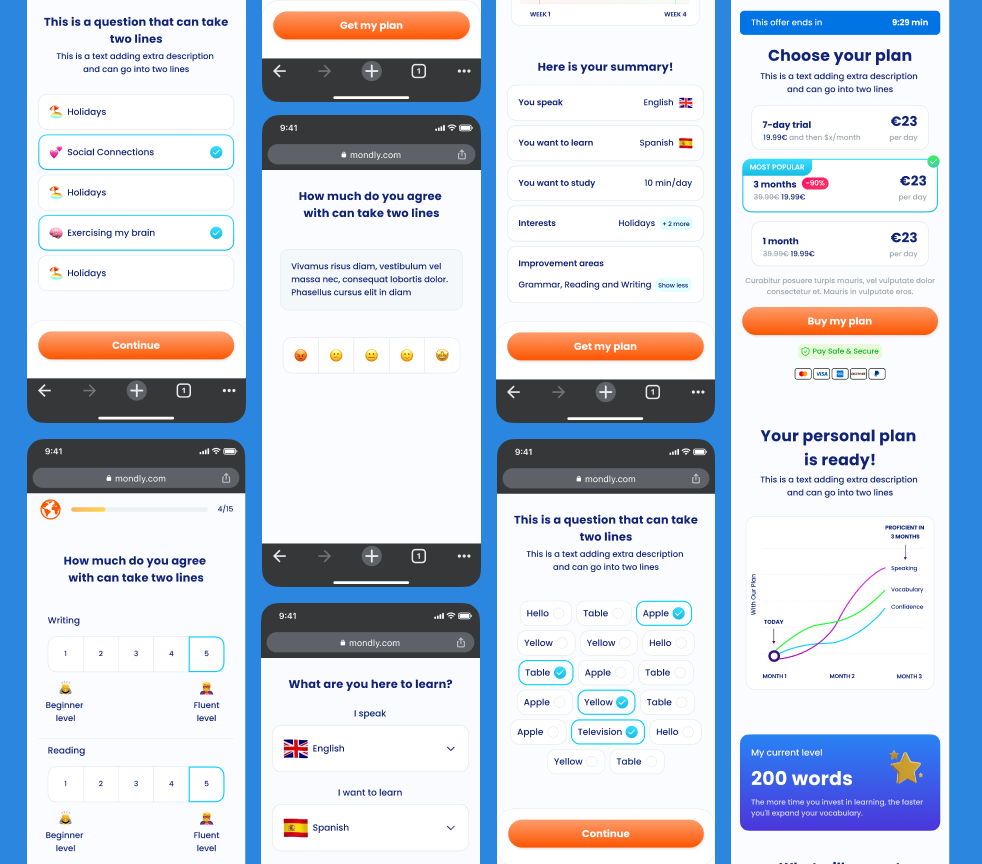
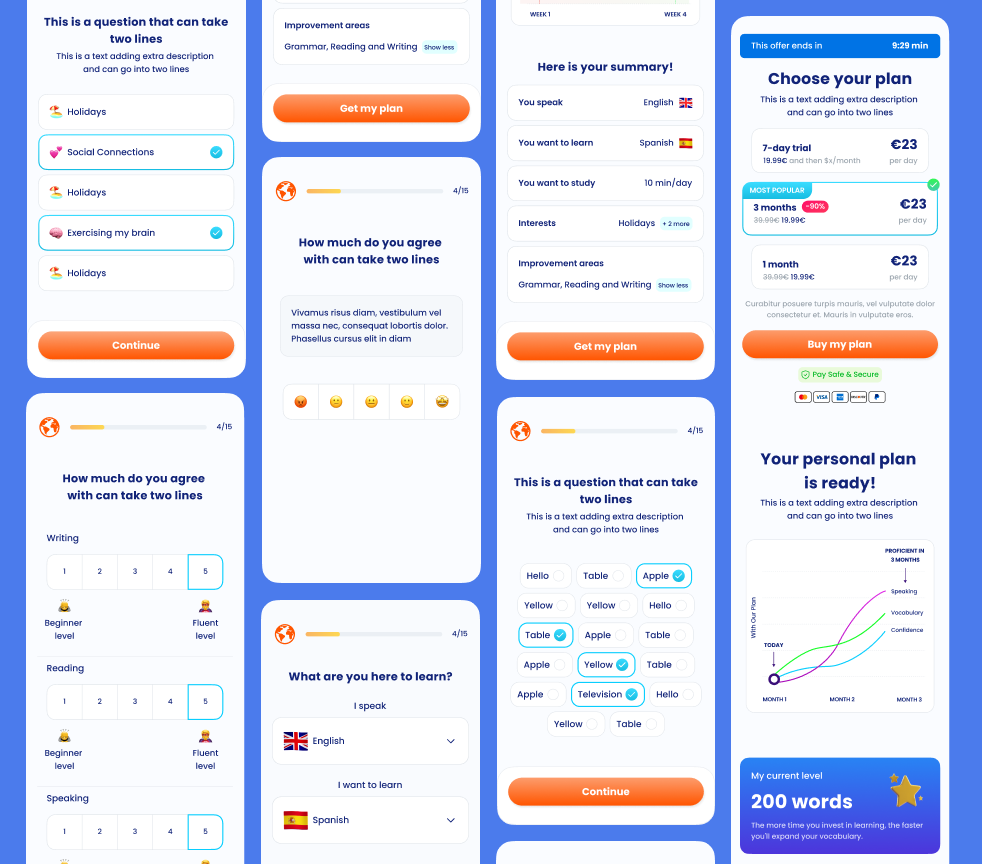
mondly images

diff --git a/content/projects/mondly/index.md b/content/projects/mondly/index.md
@@ -41,7 +41,8 @@ Some of the tests we made included the redesign of the Offer page and the App an
 
 <p class="photo-footnote"> Screenshot from the light and dark version of the App Store images for iPhone 10</p>
 
-![App Store Images](images/app-store-images.png)
+![App Store Images](images/app-store-images-dark.png)
+![App Store Images](images/app-store-images-light.png)
 
 <p class="photo-footnote"> Screenshot from the light and dark version of the App Store images for iPhone 10</p>
 
